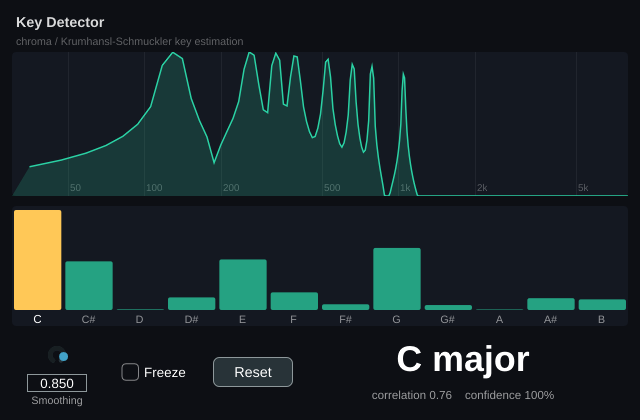
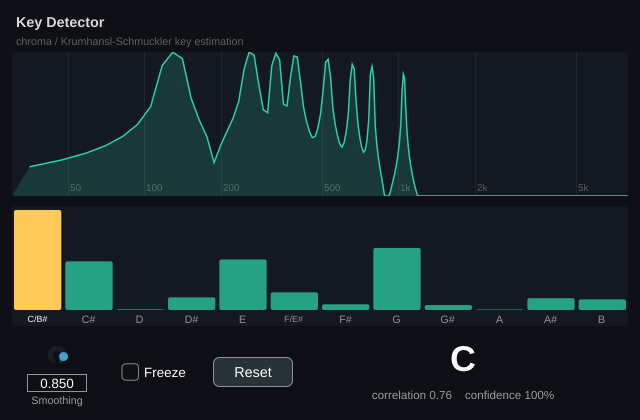
gui: note-only readout (drop 'major'); dual-label enharmonic bins
- Big key readout now shows just the pitch class (KeyEstimate::noteName()).
- Chroma bars show all requested names: C/B#, C#, D, D#, E, F/E#, F#, G, G#, A, A#, B
  (E# is enharmonic with F, B# with C, so those two bars carry both spellings).

Changed region(s): [[0.5938, 0.8048, 0.8438, 0.8976], [0.0312, 0.7429, 0.0938, 0.7738], [0.4375, 0.7429, 0.4688, 0.7738]]

diff --git a/Source/SpectrumAnalyzer.cpp b/Source/SpectrumAnalyzer.cpp
@@ -92,8 +92,10 @@ void SpectrumDisplay::paint (juce::Graphics& g)
 //==============================================================================
 void ChromaDisplay::paint (juce::Graphics& g)
 {
+    // 12 pitch classes.  Two of them get an enharmonic double-label so every name
+    // is shown: pitch class 0 is C (== B#) and pitch class 5 is F (== E#).
     static const char* names[12] =
-        { "C", "C#", "D", "D#", "E", "F", "F#", "G", "G#", "A", "A#", "B" };
+        { "C/B#", "C#", "D", "D#", "E", "F/E#", "F#", "G", "G#", "A", "A#", "B" };
 
     auto bounds = getLocalBounds().toFloat();
 
@@ -124,8 +126,10 @@ void ChromaDisplay::paint (juce::Graphics& g)
         g.fillRoundedRectangle (bar, 2.0f);
 
         g.setColour (isTonic ? juce::Colours::white : juce::Colours::white.withAlpha (0.55f));
-        g.setFont (isTonic ? 13.0f : 12.0f);
-        g.drawText (names[i], (int) x, (int) (h + 1.0f), (int) barW, (int) labelH,
+        const juce::String label (names[i]);
+        // Shrink the two double-labels ("C/B#", "F/E#") so they fit the bar width.
+        g.setFont (label.length() > 2 ? 10.0f : (isTonic ? 13.0f : 12.0f));
+        g.drawText (label, (int) x, (int) (h + 1.0f), (int) barW, (int) labelH,
                     juce::Justification::centred, false);
     }
 }

diff --git a/Source/ChromaKeyDetector.h b/Source/ChromaKeyDetector.h
@@ -34,7 +34,8 @@ public:
         float correlation = 0.0f;   // Pearson correlation with the winning profile (-1..1)
         float confidence  = 0.0f;   // normalised margin over the runner-up key (0..1)
 
-        std::string name() const;   // e.g. "F# minor"
+        std::string name() const;      // e.g. "F# minor"
+        std::string noteName() const;  // just the pitch class, e.g. "F#"  (no mode)
     };
 
     ChromaKeyDetector() = default;

diff --git a/Source/PluginEditor.cpp b/Source/PluginEditor.cpp
@@ -115,7 +115,7 @@ void KeyDetectorAudioProcessorEditor::timerCallback()
 
     if (chromaSum > 1.0e-4f)
     {
-        keyLabel.setText (est.name(), juce::dontSendNotification);
+        keyLabel.setText (est.noteName(), juce::dontSendNotification);
         detailLabel.setText (
             "correlation " + juce::String (est.correlation, 2)
                 + "    confidence " + juce::String (juce::roundToInt (est.confidence * 100.0f)) + "%",

diff --git a/Source/ChromaKeyDetector.cpp b/Source/ChromaKeyDetector.cpp
@@ -72,6 +72,11 @@ std::string ChromaKeyDetector::KeyEstimate::name() const
     return std::string (kPitchClassNames[pitchClass % 12]) + (isMinor ? " minor" : " major");
 }
 
+std::string ChromaKeyDetector::KeyEstimate::noteName() const
+{
+    return kPitchClassNames[pitchClass % 12];
+}
+
 //==============================================================================
 void ChromaKeyDetector::prepare (double newSampleRate, int newFftSize)
 {
